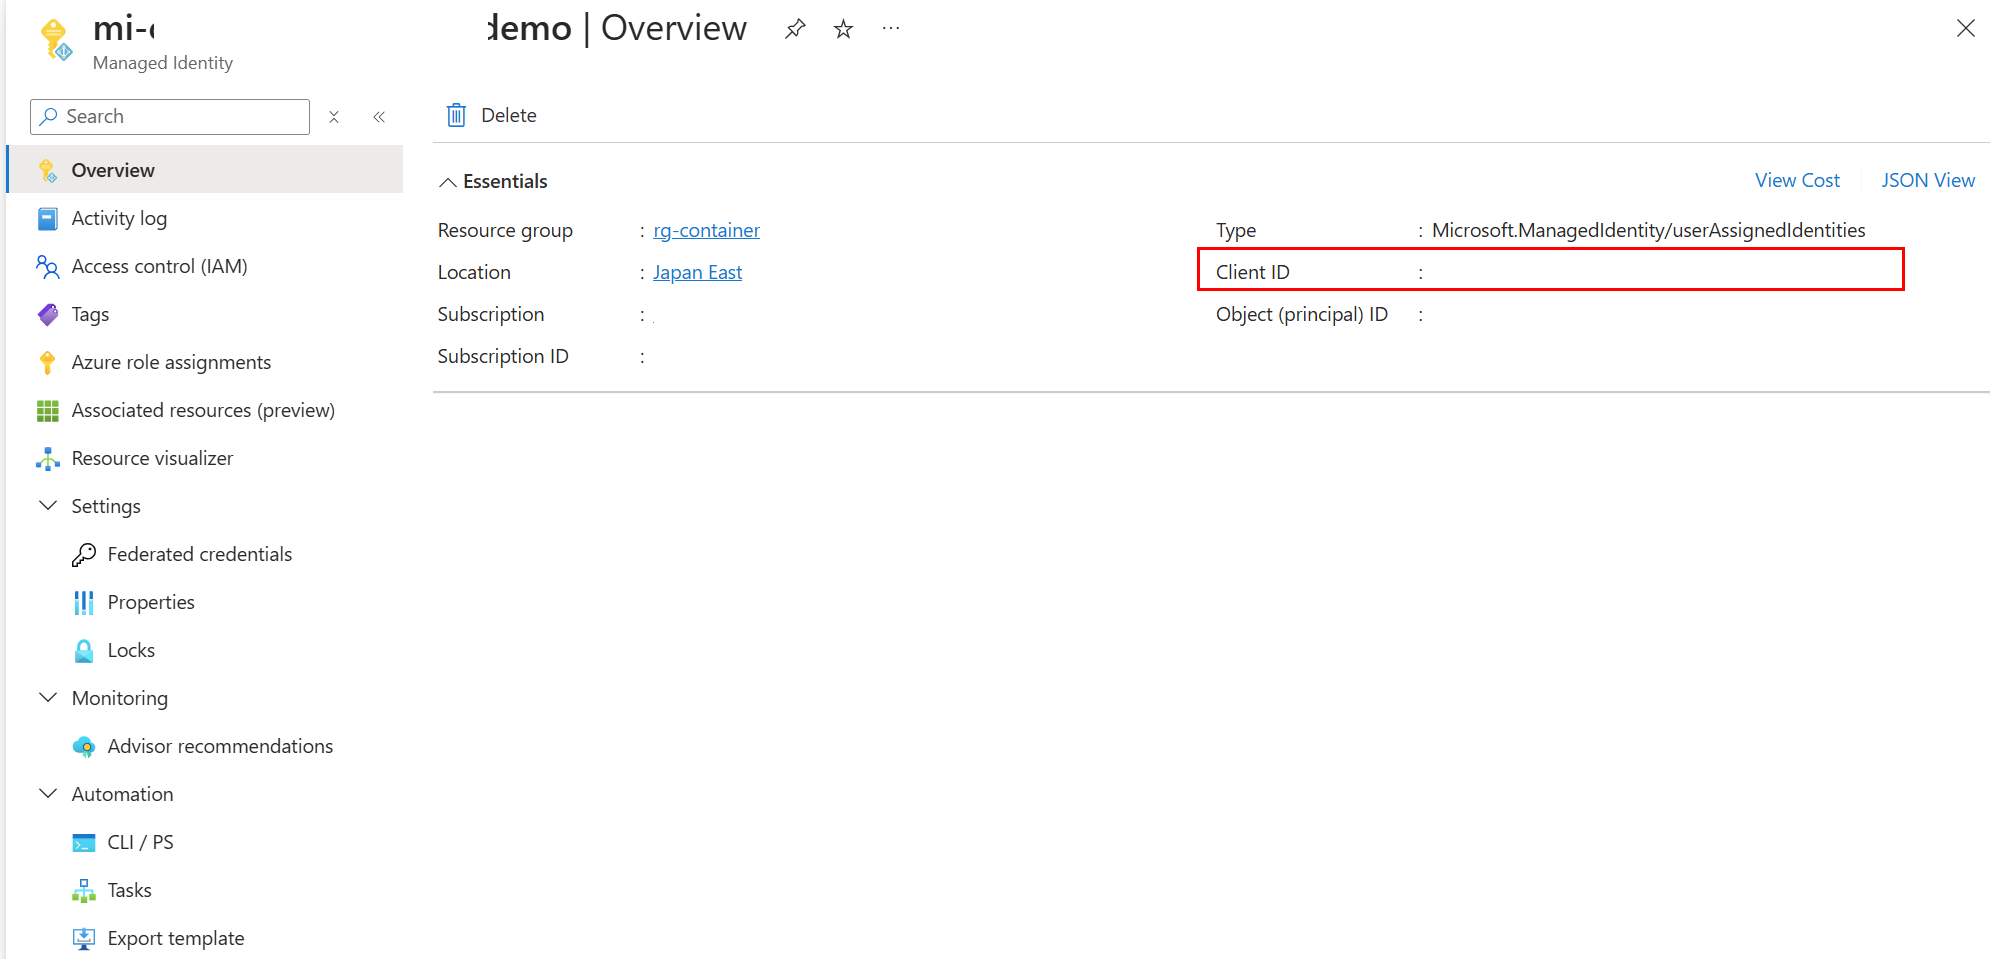
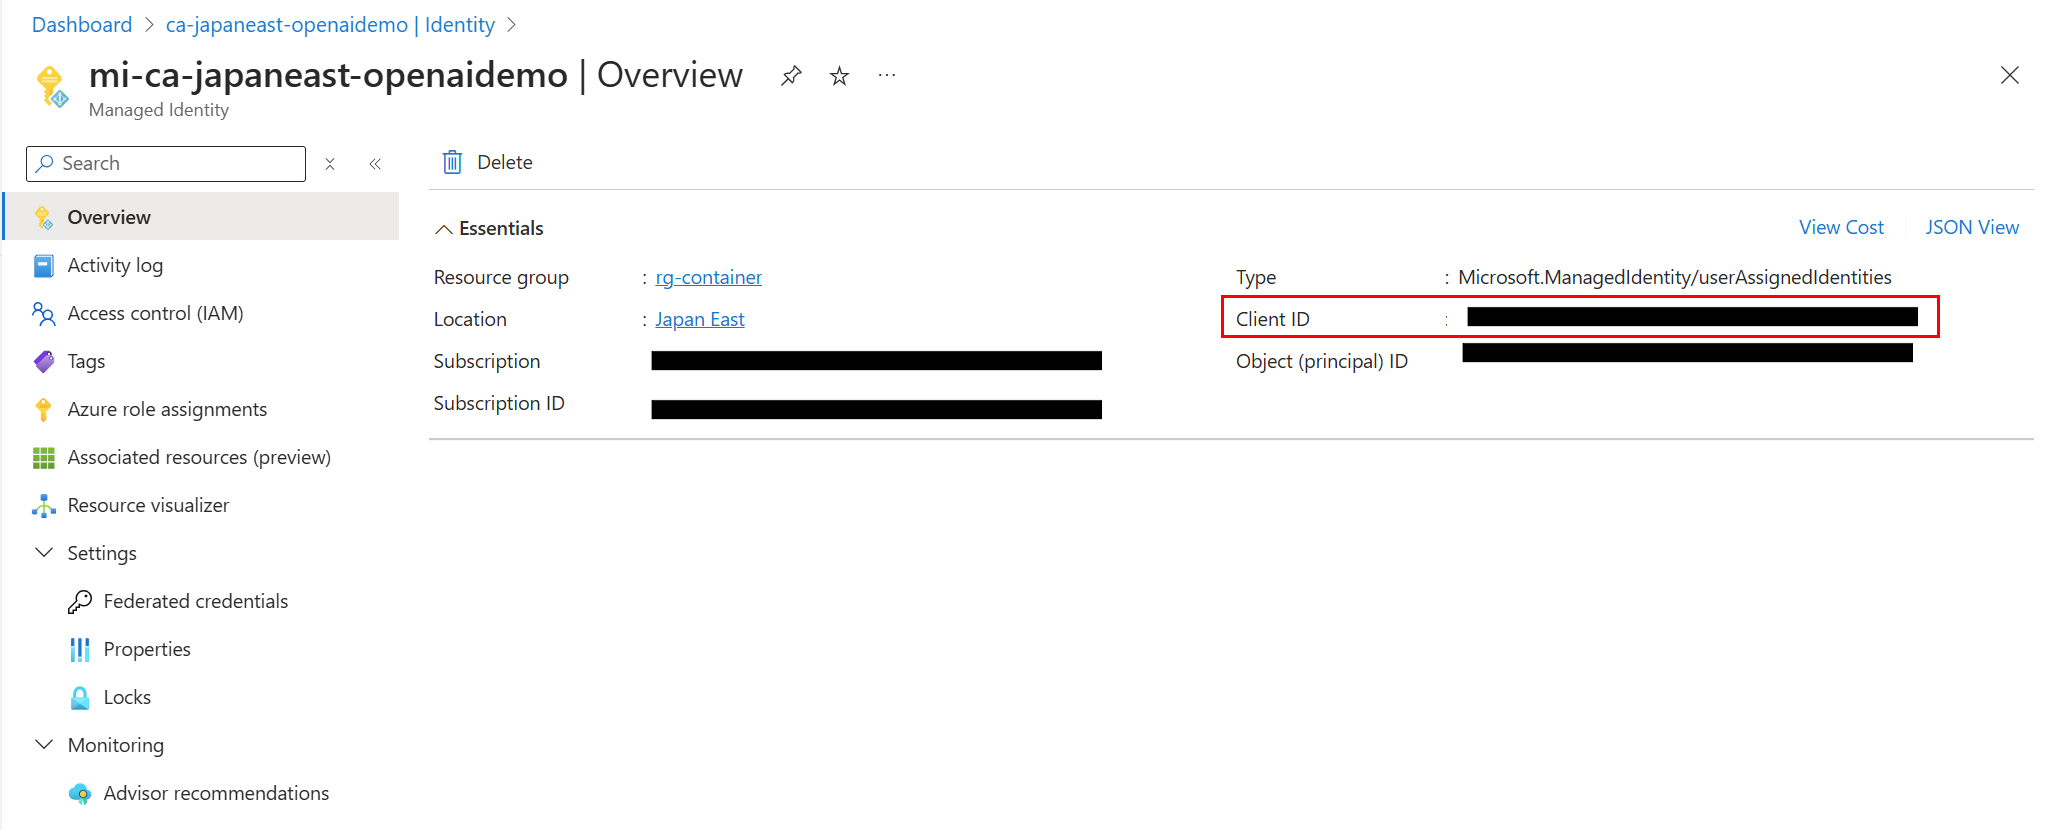
更新 Managed Identity 設定說明

diff --git a/README.md b/README.md
@@ -1,7 +1,7 @@
 # 關於本範例
 本範例是使用 [Streamlit](https://streamlit.io/) 與 [Langchain](https://python.langchain.com/docs/get_started/introduction.html) 搭配 Azure OpenAI Service 實作的對話機器人，並依照 [Vector Similarity Search with Azure SQL database and OpenAI](https://devblogs.microsoft.com/azure-sql/vector-similarity-search-with-azure-sql-database-and-openai/) 一文的說明，將 [OpenAI 所提供的 Simple English Wikipedia 主要條目的 Embedding 向量資料](https://cdn.openai.com/API/examples/data/vector_database_wikipedia_articles_embedded.zip) 儲存於 Azure SQL Database 內，以對話機器人的方式對 Azure SQL Database 進行全文檢索，並採用餘弦近似比對的方式找出與 Simple English Wikipedia 內最相近的內容。 程式碼皆位於 src 資料夾內，其餘資料夾不包含程式碼，都與環境部屬相關。若目前尚未有 Azure OpenAI Service 與 LangChain 開發經驗，也可先透過此[中文快速上手 Notebook 加速學習](https://github.com/tomleetaiwan/azure_openai_quick_start)。 
 
-**本範例僅是功能示範，將 OpenAI API Key 與 SQL Server 連接字串儲存於環境變數中並非符合資訊安全的作法，請勿直接使用於對外開放之 Microsoft Azure 環境。**
+**本範例僅是功能示範，將 OpenAI API Key 與 SQL Server 連接字串儲存於環境變數中並非符合資訊安全的作法，請勿直接使用於對外開放之 Microsoft Azure 環境。此外[ Azure SQL Database 內建支援向量搜尋功能已經於2023年11月進入到公開技術預覽階段，前述方法未來將有所改變](https://devblogs.microsoft.com/azure-sql/vector-search-with-azure-sql-database/)**
 
  ![使用者介面](/images/streamlit-app-ui.png)
 
@@ -15,22 +15,22 @@
     + text-embedding-ada-002        
 - 備妥 Python 3.11 編輯與執行環境
 - 備妥 以下 Python 套件
-    + python-dotenv
-    + langchain
-    + langchain-core
-    + langchain-openai
-    + langchain-community
-    + tiktoken
-    + wikipedia
-    + streamlit
-    + streamlit-chat
-    + pyodbc
-    + sqlalchemy
-    + pandas
-    + azure.identity
+    + python-dotenv (1.0.0)
+    + langchain (0.3.2)
+    + langchain-core (0.3.9)
+    + langchain-openai (0.2.2)
+    + langchain-community (0.3.1)
+    + tiktoken (0.8.0)
+    + wikipedia (1.4.0)
+    + streamlit (1.39.0)
+    + streamlit-chat (0.1.1)
+    + pyodbc (4.0.39)
+    + sqlalchemy (2.0.19)
+    + pandas (1.5.3)
+    + azure.identity (1.18.0)
 
 - 備妥 Docker 容器環境 (選用)
-- 若在 Linux 環境進行開發，須備妥 [Microsoft ODBC 18 環境](https://learn.microsoft.com/zh-tw/sql/connect/odbc/linux-mac/installing-the-microsoft-odbc-driver-for-sql-server?view=sql-server-ver16&tabs=alpine18-install%2Calpine17-install%2Cdebian8-install%2Credhat7-13-install%2Crhel7-offline#17)
+- 若在 Linux 環境進行開發，須備妥 [Microsoft ODBC 18 環境](https://learn.microsoft.com/en-us/sql/connect/odbc/linux-mac/installing-the-microsoft-odbc-driver-for-sql-server?view=sql-server-ver16&tabs=debian18-install%2Calpine17-install%2Cdebian8-install%2Credhat7-13-install%2Crhel7-offline)
 
 所需的兩種模型，可點選 [Azure AI Studio](https://oai.azure.com/portal) 標示之 **Deployments** 選項，即可依序建立部署，請紀錄模型之部署名稱，後續需要輸入環境變數之中。
 
@@ -98,10 +98,6 @@ def provide_token(dialect, conn_rec, cargs, cparams):
     cparams["attrs_before"] = {SQL_COPT_SS_ACCESS_TOKEN: token_struct}
 ```
 
-在 Microsoft Azure 端則使用 Managed Identity 方式進行無密碼驗證，詳細步驟可參閱 https://learn.microsoft.com/en-us/azure/azure-sql/database/azure-sql-passwordless-migration-python，
-此文件雖是使用 Azure App Service 作作為範例，但建立 User Assigned Managed Identity 與設定 Azure SQL Database 存取權限等方式是相同的。
-
-
 ## 單純在開發環境執行此程式碼
 
 在命令列模式下切換至 /src 資料夾，並執行以下指令
@@ -128,7 +124,6 @@ docker run -dit --name streamlit-app -p 8501:8501 streamlit-app:1
 執行以上命令後，以瀏覽器開啟 http://localhost:8501/ 即可進行測試。
 
 但若是使用 Microsoft Entra ID 進行身分驗證，考量安全因素，目前無法直接在本機端取得 Microsoft Entra ID 之前登入過之 DefaultAzureCredential 進行測試，此議題在 https://github.com/Azure/azure-sdk-for-net/issues/19167 已經討論很長的時間，但目前尚未有很好的解決方案，採用 Microsoft Entra ID 服務主體 (Service Principal) 進行身分驗證是可能的方案之一。
-
 
 ## 手動以容器方式部署於 Microsoft Azure
 
@@ -161,17 +156,64 @@ az containerapp create --name ca-streamlitapp  --resource-group <您的資源群
 ```
 若順利部署完畢會顯示 URL 以供存取
 
-## 使用 Microsoft Entra ID 搭配 Managed Identity 方式進行 Azure SQL Database 無密碼身分驗證
+## 在 Microsoft Azure 上使用 Managed Identity 方式進行無密碼驗證
+在 Microsoft Azure 端則使用 Managed Identity 方式進行無密碼驗證，詳細步驟可參閱 https://learn.microsoft.com/en-us/azure/azure-sql/database/azure-sql-passwordless-migration-python，
+此文件雖是使用 Azure App Service 作作為範例，但建立 User Assigned Managed Identity 與設定 Azure SQL Database 存取權限等方式是相同的。可以透過 Azure CLI 建立 User Assigned Managed Identity，例如 
+
+```bash
+az identity create --name <User Assigned Managed Identity 名稱> --resource-group <您的資源群組>
+```
+
+接下來可將建立妥的 User Assigned Managed Identity 與 Azure Container Apps 進行綁定
+
+![使用者介面](/images/bindmanagedidentity.png)
+
+Azure Kubernetes Service 目前無法在 Azure Portal 直接綁定 User Assigned Managed Identity，需要透過 Azure CLI 進行綁定，如下先取得先前建立的 User Assigned Managed Identity 之 Resource ID。
+
+```bash
+RESOURCE_ID=$(az identity show \
+    --name <User Assigned Managed Identity 名稱> \
+    --resource-group <您的資源群組> \
+    --query id \
+    --output tsv)
+```    
+接下來可以透過以下指令將 User Assigned Managed Identity 與現有 Azure Kubernetes Service 叢集進行綁定
+
+```bash
+az aks update \
+    --resource-group <您的資源群組> \
+    --name <AKS名稱> \
+    --enable-managed-identity \
+    --assign-identity $RESOURCE_ID
+```
+新建立的 User Assigned Managed Identity 綁定應用程式所在的 Azure Container App 或 Azure Kubernetes Service 後，還需要將此 User Assigned Managed Identity 授予 Azure SQL Database 內預設角色 SQL DB Contributor，以便於實現 Azure SQL Database 伺服器層級無密碼身分驗證。
+
+![使用者介面](/images/azuresql-iam.png)
+
+SQL DB Contributor 角色具備 Azure SQL Database 資料庫連接與管理之權限，卻不具備存取 SQL Server 資料庫內資料之權限。因此需要將 User Assigned Managed Identity 加入至 SQL Server 資料庫各種預設存取角色中，例如
+
+```sql
+CREATE USER [<User Assigned Managed Identity 名稱>] FROM EXTERNAL PROVIDER;
+ALTER ROLE db_datareader ADD MEMBER [<User Assigned Managed Identity 名稱>];
+ALTER ROLE db_datawriter ADD MEMBER [<User Assigned Managed Identity 名稱>];
+ALTER ROLE db_ddladmin ADD MEMBER [<User Assigned Managed Identity 名稱>];
+GO
+```
+
+## 使用 Microsoft Entra ID 搭配 Managed Identity 方式讓 Azure Container Apps 以無密碼身分驗證存取 Azure SQL Database 
 
 雲端環境需設定以下環境變數
 
 ```bash
-AZURE_CLIENT_ID = <您的 Azure Managed Identity Client ID>
+AZURE_CLIENT_ID = <您的 Azure Managed Identity 的 Client ID>
 ```
  由 Azure Portal 中可以取得 Managed Identity 的 Client ID，如下圖所示
+
  ![使用者介面](/images/managedidentity-clientid.png)
 
+可以透過 Azure Portal 將環境變數 AZURE_CLIENT_ID 加入至 Azure Container Apps 的設定中，如下圖所示
 
+ ![使用者介面](/images/conatinerapps-envvar.png)
 
 ## 以 Azure Developer CLI 自動化部署於 Microsoft Azure
 
